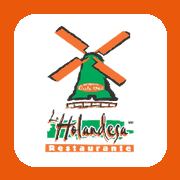
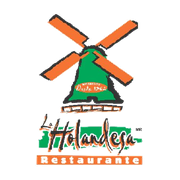
Versión 30.6.6: ícono del panel con fondo blanco, sin marco naranja
Claude-Session: https://claude.ai/code/session_01QiXp5pKvjoUfmzL1EtQSHV

diff --git a/holandesa_monitor.py b/holandesa_monitor.py
@@ -14,8 +14,8 @@ import os, re, sys, json, gzip, glob, time, base64, struct, hashlib, secrets, th
 from http.server import ThreadingHTTPServer, BaseHTTPRequestHandler
 
 AQUI = os.path.dirname(os.path.abspath(__file__))
-VERSION = 79            # número interno que compara la actualización automática (siempre entero, sube de 1 en 1)
-VERSION_TXT = '30.6.5'    # versión que se muestra: 24.1, 24.2… y 25.0 cuando hay un cambio grande
+VERSION = 80            # número interno que compara la actualización automática (siempre entero, sube de 1 en 1)
+VERSION_TXT = '30.6.6'    # versión que se muestra: 24.1, 24.2… y 25.0 cuando hay un cambio grande
 REPO_RAW = 'https://raw.githubusercontent.com/Jorge-1639/monitor-holandesa/main/'
 CONFIG_FILE = os.path.join(AQUI, 'config.json')
 LOG_FILE = os.path.join(AQUI, 'monitor.log')

diff --git a/README.md b/README.md
@@ -132,3 +132,5 @@ Versión 30.6.4 — el ícono del comandero va dentro de la misma página (data 
 
 Versión 30.6.5 — comandero instalable: service worker mínimo (/comandero-sw.js) y botón azul "📲 Instalar Holandesa Comandero en este teléfono"
 que aparece abajo cuando Chrome permite instalarlo (dirección segura https://newcaja…/comandero). Manifest con id /comandero.
+
+Versión 30.6.6 — el ícono del panel de ventas también es el logo sobre fondo blanco (sin el marco naranja), igual que el del comandero.
